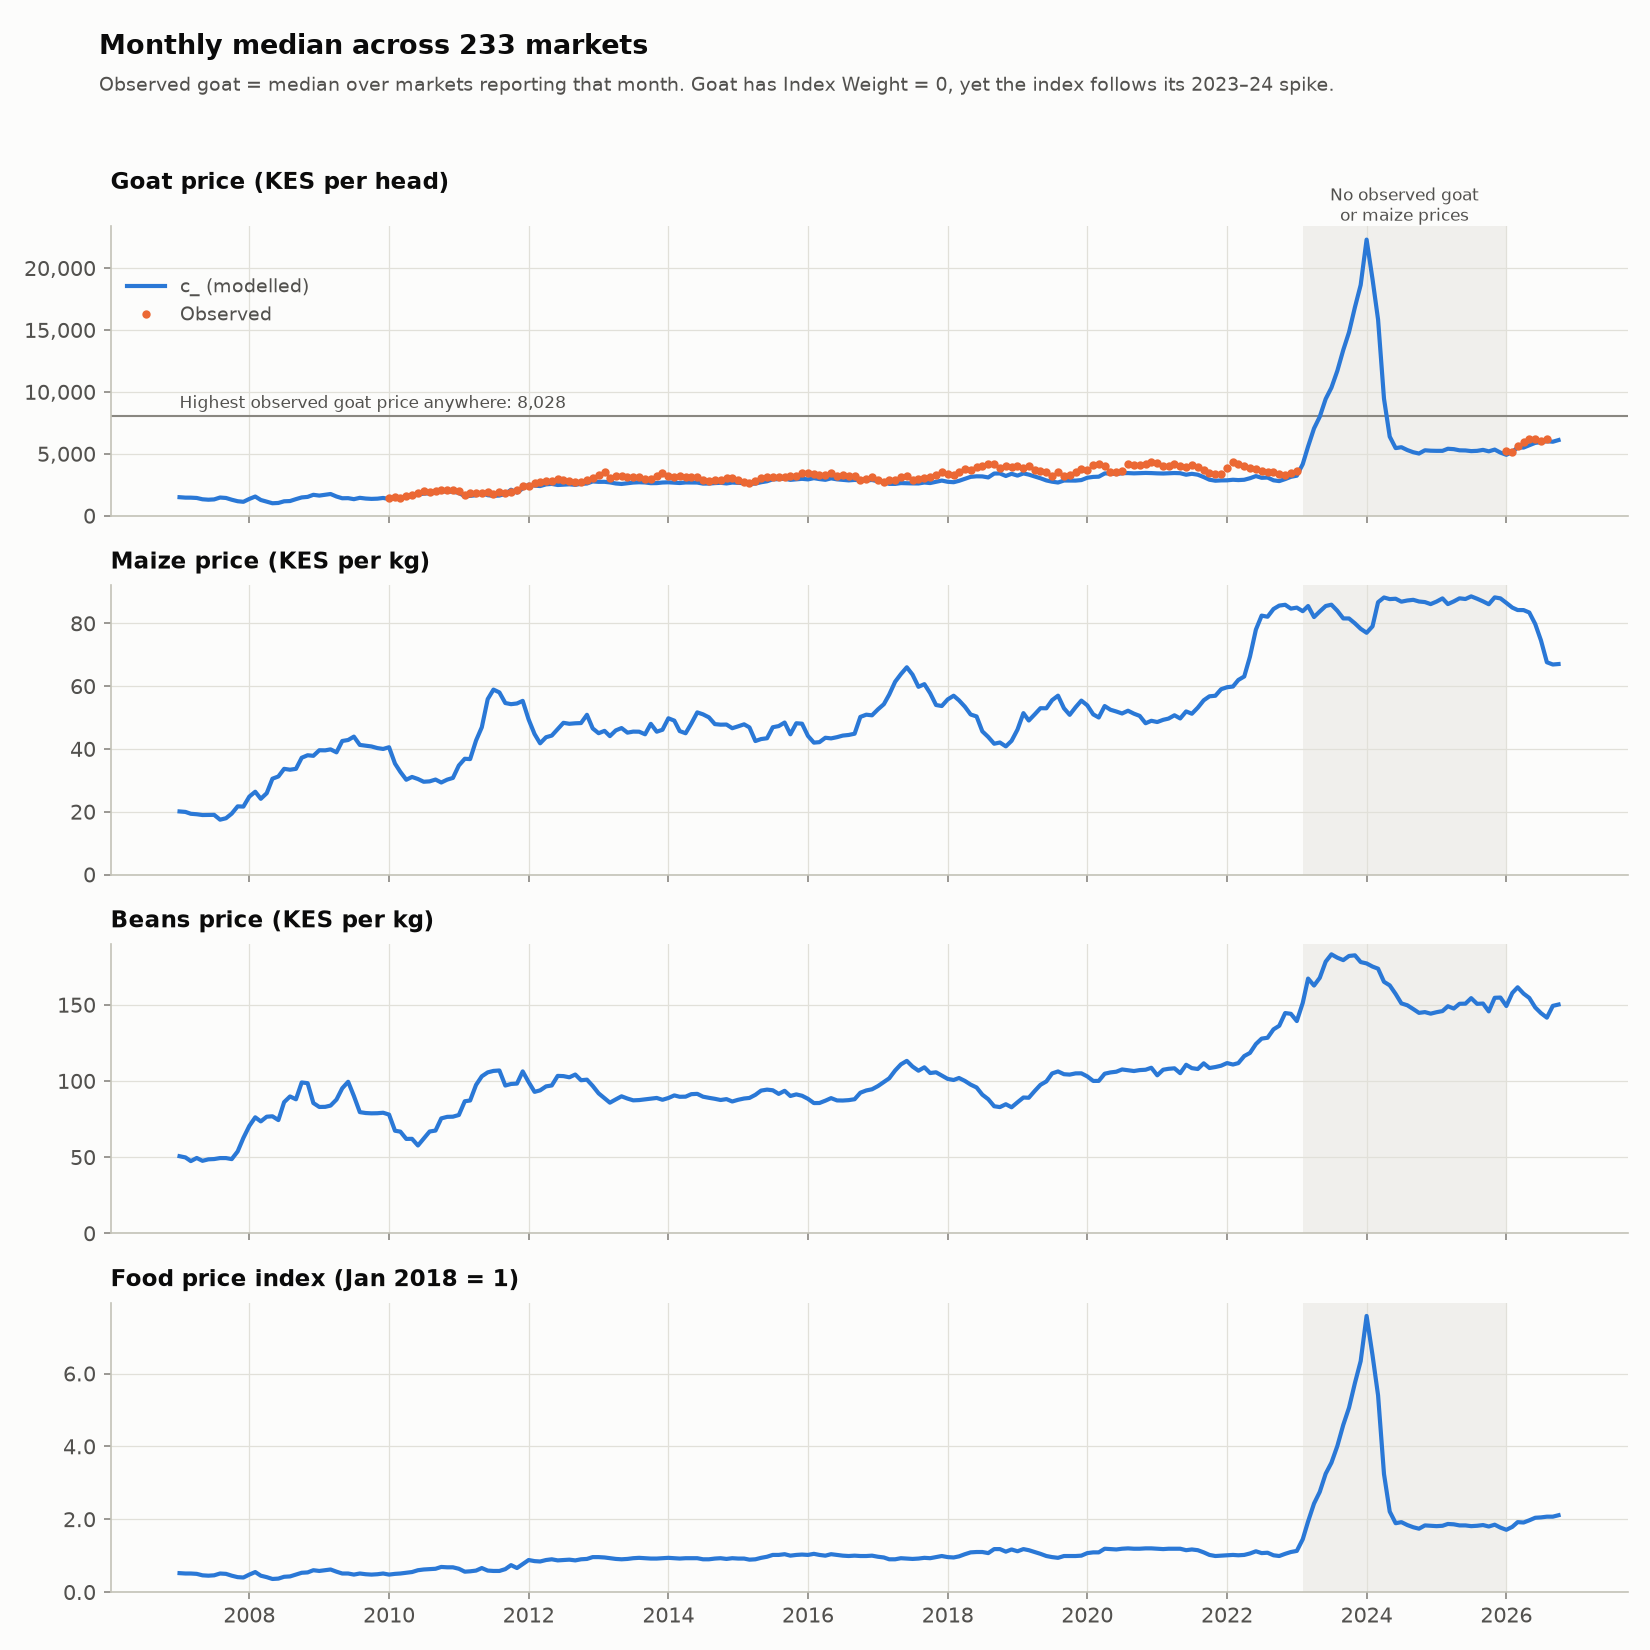
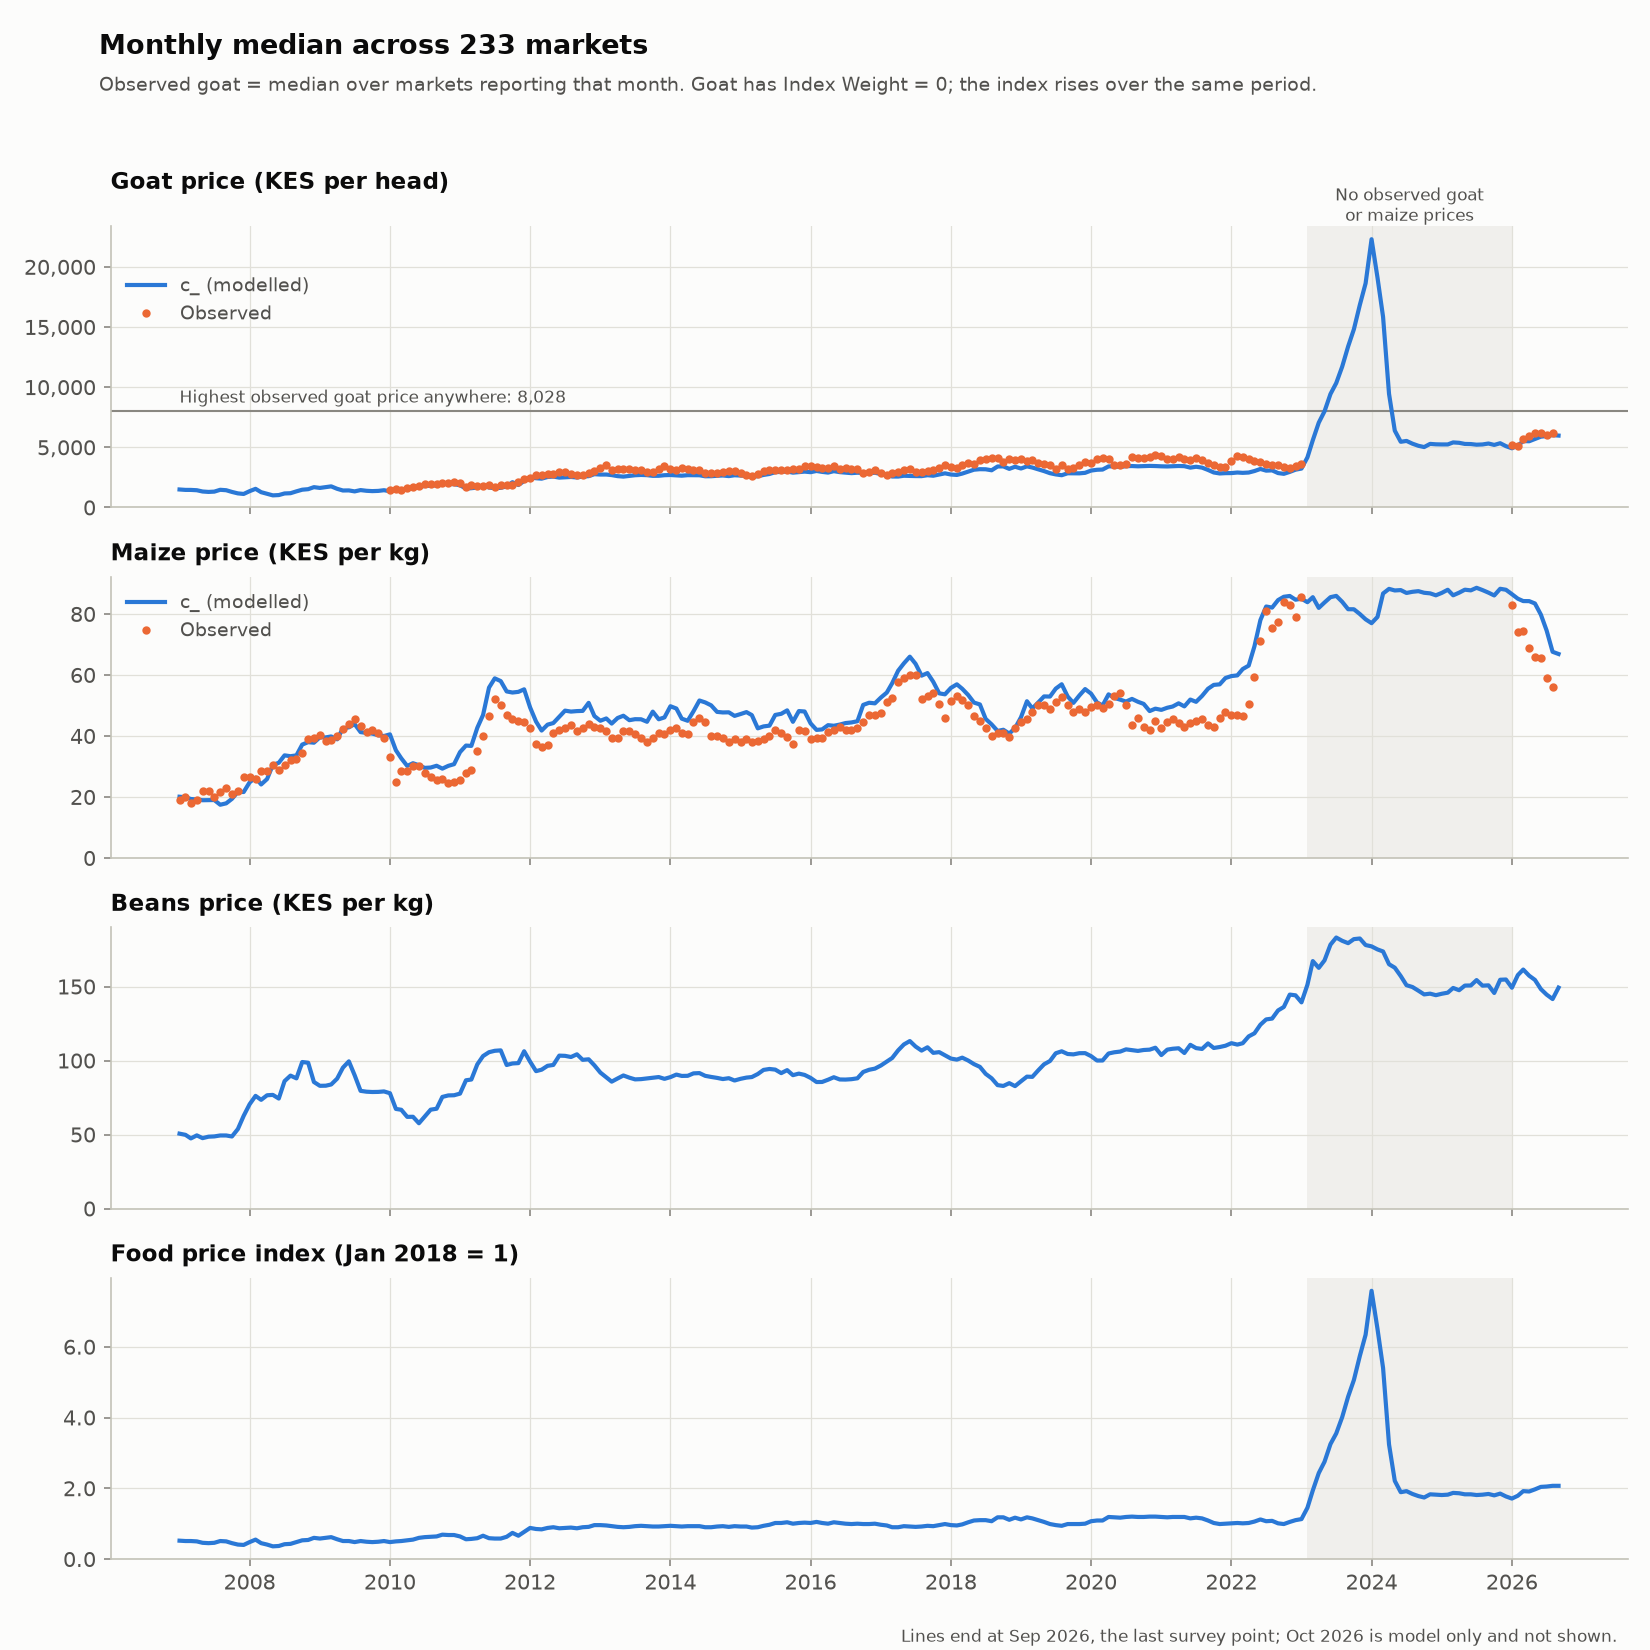
WIP: neutral subtitle, observed maize dots, stop at last survey month

diff --git a/scripts/plot_checks.py b/scripts/plot_checks.py
@@ -94,16 +94,21 @@ def plot_medians(df, out):
         "c_goat": g.c_livestock_goat_s_fao.median(),
         "obs_goat": g.livestock_goat_s_fao.median(),  # median over markets that reported
         "c_maize": g.c_maize_fao.median(),
+        "obs_maize": g.maize_fao.median(),  # median over markets that reported
         "c_beans": g.c_beans.median(),
         "c_fpi": g.c_food_price_index.median(),
     })
+    # Stop at the last survey point (Sep 2026); later months are model only
+    last_survey = pd.to_datetime(df.last_survey_point.iloc[0], format="%b %Y")
+    med = med[med.index <= last_survey]
     obs_max = df.livestock_goat_s_fao.max()
 
     # One panel per unit; shared x, independent y. Never a dual axis.
     panels = [
         ("Goat price (KES per head)", [("c_goat", "c_ (modelled)", BLUE),
                                        ("obs_goat", "Observed", ORANGE)]),
-        ("Maize price (KES per kg)", [("c_maize", "c_ (modelled)", BLUE)]),
+        ("Maize price (KES per kg)", [("c_maize", "c_ (modelled)", BLUE),
+                                      ("obs_maize", "Observed", ORANGE)]),
         ("Beans price (KES per kg)", [("c_beans", "c_ (modelled)", BLUE)]),
         ("Food price index (Jan 2018 = 1)", [("c_fpi", "c_ (modelled)", BLUE)]),
     ]
@@ -112,8 +117,8 @@ def plot_medians(df, out):
         shade_gap(ax, label=(i == 0))
         for col, label, color in series:
             s = med[col]
-            # Observed goat is sparse: draw points so gaps stay visible
-            if col == "obs_goat":
+            # Observed series are sparse: draw points so gaps stay visible
+            if col.startswith("obs_"):
                 ax.plot(s.index, s, "o", ms=3, color=color, label=label, zorder=3)
             else:
                 ax.plot(s.index, s, color=color, label=label, zorder=3)
@@ -126,14 +131,17 @@ def plot_medians(df, out):
                      (med.index[0], obs_max), xytext=(0, 4), textcoords="offset points",
                      fontsize=8, color=INK_2)
     axes[0].legend(loc="upper left", bbox_to_anchor=(0, 0.88), fontsize=9)
+    axes[1].legend(loc="upper left", fontsize=9)
     axes[-1].xaxis.set_major_locator(mdates.YearLocator(2))
     axes[-1].xaxis.set_major_formatter(mdates.DateFormatter("%Y"))
     fig.suptitle("Monthly median across 233 markets", x=0.06, ha="left",
                  fontsize=13, fontweight="bold")
     fig.text(0.06, 0.945, "Observed goat = median over markets reporting that month. "
-             "Goat has Index Weight = 0, yet the index follows its 2023–24 spike.",
+             "Goat has Index Weight = 0; the index rises over the same period.",
              fontsize=9, color=INK_2)
-    fig.tight_layout(rect=(0, 0, 1, 0.94))
+    fig.text(0.98, 0.005, f"Lines end at {last_survey:%b %Y}, the last survey point; "
+             "Oct 2026 is model only and not shown.", ha="right", fontsize=8, color=INK_2)
+    fig.tight_layout(rect=(0, 0.02, 1, 0.94))
     fig.savefig(out, dpi=150)
     plt.close(fig)
 
